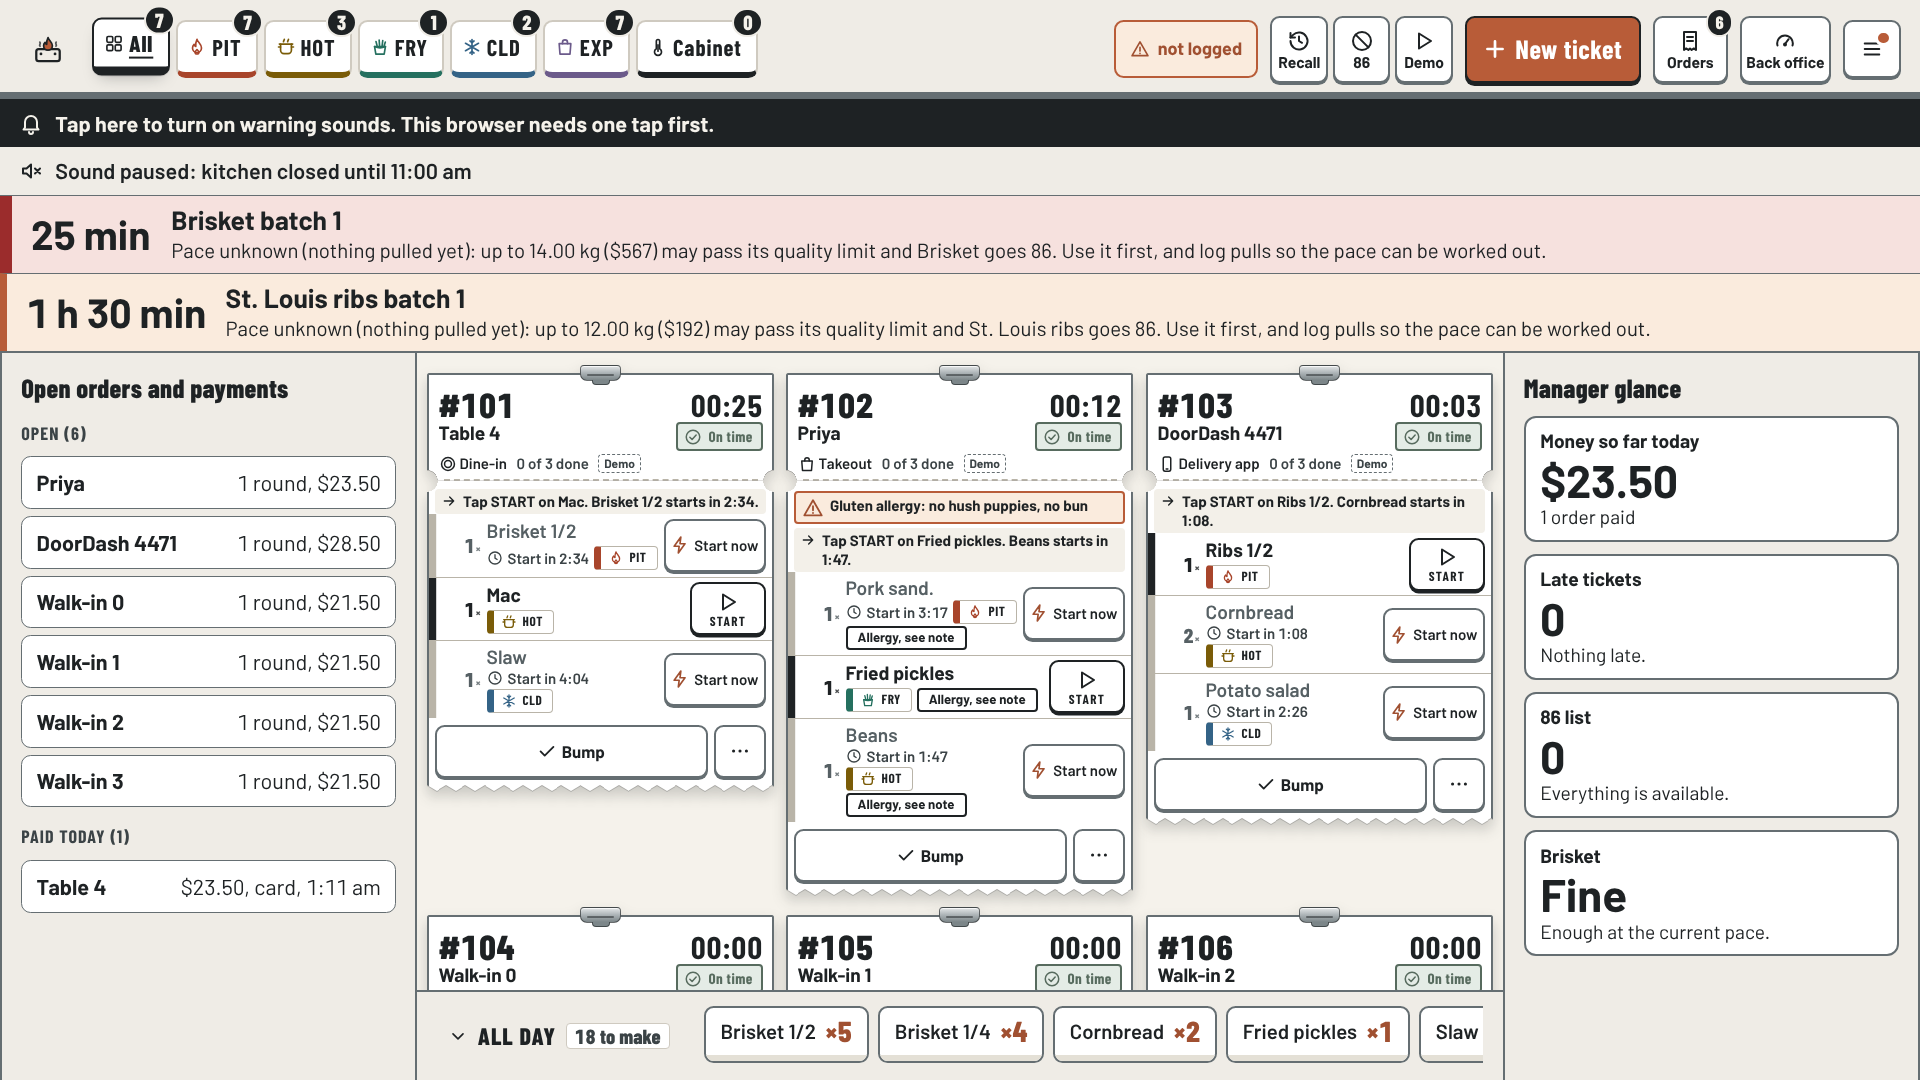
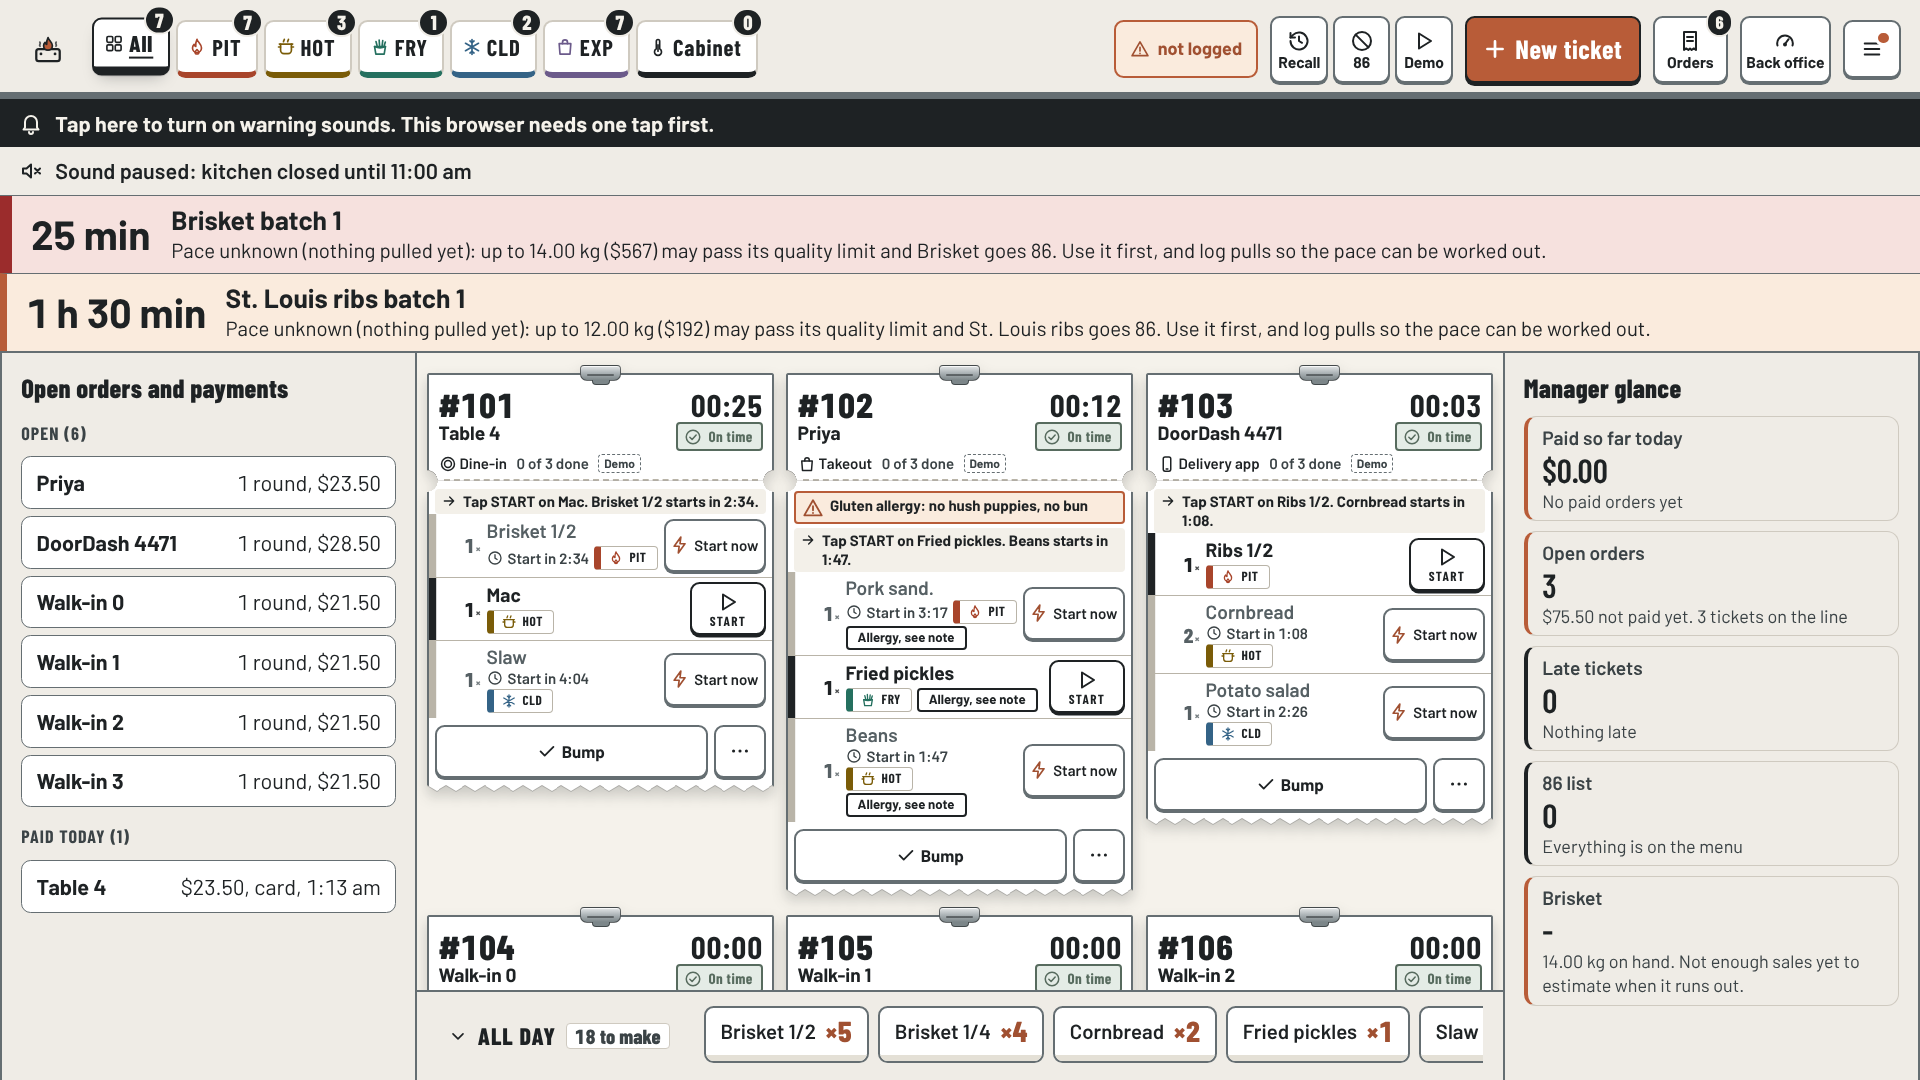
Wall mode: reuse the back-office manager glance for the right pane
Claude-Session: https://claude.ai/code/session_01JrpY4zjELL5yN4qv9BNMYQ

Changed region(s): [[0.7812, 0.3667, 1.0, 0.9167]]

diff --git a/src/js/70-floor-board.js b/src/js/70-floor-board.js
@@ -570,6 +570,10 @@
     const on = wall && g.innerWidth >= WALL_MIN_PX;
     const v = on ? 'on' : 'off';
     if (m.root.dataset.wall !== v) { m.root.dataset.wall = v; m.fitKey = null; setTimeout(() => { if (m) { paintDensity(); fitHead(); } }, 0); }
+    // The glance panel is made the first time the wall shows and removed with the board.
+    if (on && !m.glance && SB.office && typeof SB.office.glance === 'function') {
+      try { const gh = SB.office.glance(m.wr.body, { size: 'wall' }); m.glance = gh; m.offs.push(() => gh.destroy()); } catch (e) { console.error('[smokebox] glance failed', e); }
+    }
     if (on) updateWall(store().now());
   }
   // Builds a pane: a title and a body, with the parts the updates change handed back.
@@ -587,27 +591,14 @@
     p.body.append(p.openH, p.openL, p.openMore, p.paidH, p.paidL, p.paidMore);
     return p;
   }
-  // The right pane: money so far, late tickets, the 86 list and the brisket run-out time, as four fixed tiles.
-  function buildWallGlance() {
-    const p = wallPane('fl-wall-glance', 'Manager glance', 'Manager glance');
-    // One tile: a small label over a big value, with an optional note line.
-    const tile = (id, label) => { const v = h('div', { class: 'fl-tile-v num' }), n = h('div', { class: 'fl-tile-n' }); const el = h('div', { class: 'fl-tile', dataset: { tile: id } }, h('div', { class: 'fl-tile-l' }, label), v, n); p.body.appendChild(el); return { el, v, n }; };
-    p.money = tile('money', 'Money so far today'); p.late = tile('late', 'Late tickets'); p.out86 = tile('out86', '86 list'); p.brisket = tile('brisket', 'Brisket');
-    return p;
-  }
-  // Rewrites both wall panes from the store: text and attributes only, rows keyed by order id.
+  // The right pane is the manager glance from the back office (SB.office.glance, wall size). It is drawn once, the
+  // first time the wall shows, and refreshes itself every 5 seconds; this only builds its empty pane.
+  function buildWallGlance() { return wallPane('fl-wall-glance', 'Manager glance', 'Manager glance'); }
+  // Rewrites the orders pane from the store: text and attributes only, rows keyed by order id.
   function updateWall(now) {
     if (!m || !m.wl || m.root.dataset.wall !== 'on') return;
     const state = store().getState();
-    const gl = SB.deadlines.wallGlance(state, now, m.feed || [], m.counts || {});
-    const M2 = U.fmtMoney;
-    setTxt(m.wr.money.v, M2(gl.money)); setTxt(m.wr.money.n, gl.paidCount + ' ' + U.plural(gl.paidCount, 'order') + ' paid');
-    setTxt(m.wr.late.v, String(gl.late)); setTxt(m.wr.late.n, gl.late ? 'Past their time. Worst one is first on the board.' : 'Nothing late.'); setTone(m.wr.late.el, gl.late ? 'bad' : 'ok');
-    setTxt(m.wr.out86.v, String(gl.out86.length)); setTxt(m.wr.out86.n, gl.out86.length ? gl.out86.slice(0, 8).join(', ') + (gl.out86.length > 8 ? ' and ' + (gl.out86.length - 8) + ' more' : '') : 'Everything is available.'); setTone(m.wr.out86.el, gl.out86.length ? 'warn' : 'ok');
-    const b = gl.brisket;
-    setTxt(m.wr.brisket.v, b.kind === 'runout' ? U.fmtTime(b.at) : b.kind === 'enough' ? 'Fine' : 'None');
-    setTxt(m.wr.brisket.n, b.kind === 'runout' ? 'Runs out at this pace.' : b.kind === 'enough' ? 'Enough at the current pace.' : 'No brisket in the cabinet.');
-    setTone(m.wr.brisket.el, b.kind === 'runout' ? 'warn' : b.kind === 'none' ? 'bad' : 'ok');
+    const gl = SB.deadlines.wallOrders(state, now), M2 = U.fmtMoney;
     // Orders: keep rows for the first 10 open and 6 paid, patch their text, drop the rest.
     const P = m.wl, want = [];
     gl.open.slice(0, 10).forEach((o) => want.push({ key: 'o' + o.id, list: P.openL, text: o.name, meta: o.rounds + ' ' + U.plural(o.rounds, 'round') + ', ' + M2(o.total) }));

diff --git a/src/js/25-deadlines.js b/src/js/25-deadlines.js
@@ -514,27 +514,20 @@
       size: () => q.size,
     };
   }
-  // Wall mode: the numbers for the three panes, worked out once from the state. money is dollars taken today (paid
-  // orders of this service day), late the overdue ticket count, out86 the names off the menu, brisket says when the
-  // brisket runs out, and open and paid list the orders for the side pane. feed is the deadline feed already built.
-  function wallGlance(state, now, feed, counts) {
-    const out = { money: 0, paidCount: 0, late: counts && counts.overdue ? counts.overdue : 0, out86: [], brisket: { kind: 'none', at: null }, open: [], paid: [] };
+  // Wall mode, orders pane: the open orders (oldest first, with rounds and total) and the orders paid on this service
+  // day (newest first), plus how many were paid. Reads the state and changes nothing.
+  function wallOrders(state, now) {
+    const out = { paidCount: 0, open: [], paid: [] };
     if (!state || !U.isNum(now)) return out;
     const day = U.serviceDate(now, state.settings && state.settings.service ? state.settings.service.dayStartHour : undefined);
-    const orders = Array.isArray(state.orders) ? state.orders : [];
     const totals = E().openOrderTotals(state);
-    for (const o of orders) {
-      if (o.status === 'open') out.open.push({ id: o.id, name: o.customer, rounds: totals.has(o.id) ? totals.get(o.id).rounds : 0, total: totals.has(o.id) ? totals.get(o.id).total : 0, at: o.createdAt });
-      else if (o.status === 'paid' && o.serviceDate === day && o.totals) { out.money += o.totals.total; out.paidCount++; out.paid.push({ id: o.id, name: o.customer, total: o.totals.total, method: o.method, at: o.paidAt }); }
+    for (const o of Array.isArray(state.orders) ? state.orders : []) {
+      const t = totals.get(o.id);
+      if (o.status === 'open') out.open.push({ id: o.id, name: o.customer, rounds: t ? t.rounds : 0, total: t ? t.total : 0, at: o.createdAt });
+      else if (o.status === 'paid' && o.serviceDate === day && o.totals) { out.paidCount++; out.paid.push({ id: o.id, name: o.customer, total: o.totals.total, method: o.method, at: o.paidAt }); }
     }
     out.open.sort((a, b) => a.at - b.at);
     out.paid.sort((a, b) => b.at - a.at);
-    out.money = Math.round(out.money * 100) / 100;
-    for (const mi of state.menu || []) { const a = state.avail && state.avail[mi.id]; if (a && !a.ok && !mi.archived) out.out86.push(mi.short || mi.name); }
-    // Brisket: a run-out time from the feed when one is forecast, else whether any is left to sell.
-    const row = (feed || []).find((d) => d.kind === 'shortfall' && d.ing === 'brisket');
-    const left = (state.batches || []).some((b) => b.ing === 'brisket' && b.status !== 'discard' && b.remainingG > 0);
-    out.brisket = row ? { kind: 'runout', at: row.at } : left ? { kind: 'enough', at: null } : { kind: 'none', at: null };
     return out;
   }
   // Builds the feed: every deadline worth showing right now, worst first. Each row has id, kind, label, at,
@@ -554,5 +547,5 @@
     return out;
   }
   // Public API: build(state, now) gives the sorted feed; rungOf, rungsFor and soundsAllowed are shared with the sound ladder.
-  SB.deadlines = { build, rungOf, rungsFor, salesRate, soundsAllowed, nextOpenAt, pauseNote, closeAtMs, sweepToClose, nextBatchFit, makeLadder, electLeader, makePending, wallGlance };
+  SB.deadlines = { build, rungOf, rungsFor, salesRate, soundsAllowed, nextOpenAt, pauseNote, closeAtMs, sweepToClose, nextBatchFit, makeLadder, electLeader, makePending, wallOrders };
 })(typeof globalThis !== 'undefined' ? globalThis : window);

diff --git a/src/css/20-floor.css b/src/css/20-floor.css
@@ -570,12 +570,16 @@ button.slip-item.fl-item { cursor: pointer; }
 .fl-wall-name { font-weight: 700; min-width: 0; overflow: hidden; text-overflow: ellipsis; white-space: nowrap; }
 .fl-wall-meta { flex: none; font-variant-numeric: tabular-nums; }
 .fl-wall-more { margin: 0; font-size: calc(16px * var(--fl-k)); }
-.fl-tile { padding: calc(8px * var(--fl-k)) calc(12px * var(--fl-k)); background: var(--paper); border: 2px solid var(--line); border-radius: calc(10px * var(--fl-k)); }
-.fl-tile[data-tone="bad"] { border-color: var(--crimson); background: var(--tint-bad); }
-.fl-tile[data-tone="warn"] { border-color: var(--amber); background: var(--tint-warn); }
-.fl-tile-l { font-size: calc(16px * var(--fl-k)); font-weight: 700; }
-.fl-tile-v { font-size: calc(38px * var(--fl-k)); font-weight: 800; line-height: 1.1; font-variant-numeric: tabular-nums; }
-.fl-tile-n { font-size: calc(16px * var(--fl-k)); line-height: 1.3; }
+
+/* The manager glance panel (from the back office) sized for a side pane: one column, type scaled with the board. */
+.fl-wall-glance .sb-glance { margin: 0; min-height: 0; }
+.fl-wall-glance .sb-glance-grid { grid-template-columns: minmax(0, 1fr); gap: calc(8px * var(--fl-k)); }
+.fl-wall-glance .sb-glance[data-size="wall"] .sb-g-l { font-size: calc(16px * var(--fl-k)); }
+.fl-wall-glance .sb-glance[data-size="wall"] .sb-g-v { font-size: calc(28px * var(--fl-k)); }
+.fl-wall-glance .sb-g-card { padding: calc(6px * var(--fl-k)) calc(12px * var(--fl-k)); gap: 0; }
+.fl-wall-glance .fl-wall-body { overflow-y: auto; }
+.fl-wall-glance .sb-glance[data-size="wall"] .sb-g-s { font-size: calc(15px * var(--fl-k)); }
+.fl-wall-glance .sb-glance-note { display: none; }
 
 /* In the cabinet view the cards have buttons along the bottom-left, where toasts normally sit: toasts go to the top right, under the strip. */
 html[data-cabinet="on"] .sb-shell[data-view="floor"] .toast-host { bottom: auto; top: var(--fl-toast-top, 130px); left: auto; right: var(--gutter); transform: none; width: min(400px, 34vw); }
